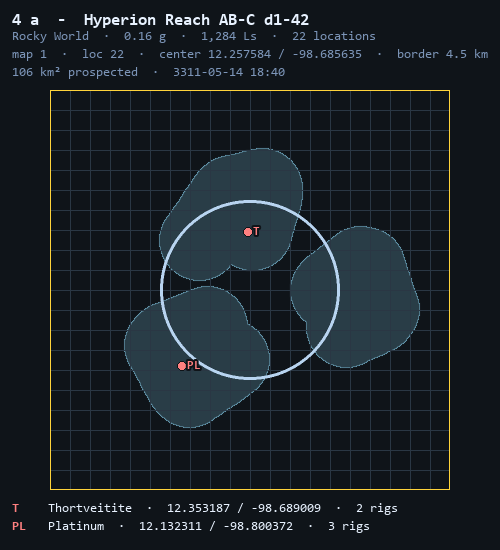
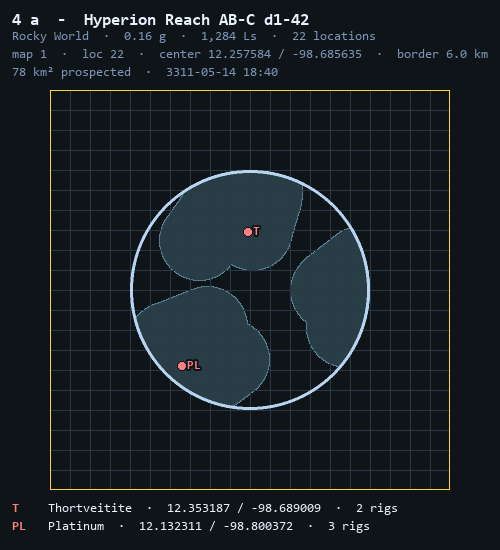
Drive rings inside a known border; ground outside it is deleted
With center and border set, the thin rings become the circles to drive:
2 km inside the border, then every 3.75 km inward for a 2 km scan range with
250 m overlap. Setting a border drops the painted points outside it and clips
the discs; driving outside paints nothing. README shows the minimap as
droppoint, center, and center with border. 4.0.0.

Claude-Session: https://claude.ai/code/session_01M6boCJULrSyUu3acaq6ken

diff --git a/rs_core/coverage.py b/rs_core/coverage.py
@@ -20,7 +20,7 @@ rs_tests/test_coverage.py.
 
 import math
 
-from PIL import Image, ImageDraw, ImageFilter
+from PIL import Image, ImageChops, ImageDraw, ImageFilter
 
 from rs_core import arrow, measure, palette, spotcard
 
@@ -49,6 +49,26 @@ STAMP_M = 250.0
 
 # Grid lines, pinned to the centre so they move with the ground.
 GRID_M = 1000.0
+
+# Drive rings inside a known border: the scan radius on each side of a ring,
+# less this much overlap with the next, apart.
+DRIVE_OVERLAP_M = 250.0
+DRIVE_STEP_M = 2 * SCAN_RADIUS_M - DRIVE_OVERLAP_M
+
+
+def drive_radii(border_m):
+    """Radii of the rings to drive to cover a location of this border, outside
+    in. The outermost scans right up to the border; each next one overlaps it
+    by DRIVE_OVERLAP_M. A last 0 means the middle is still uncovered: drive to
+    the centre itself."""
+    radii = []
+    r = border_m - SCAN_RADIUS_M
+    while r - SCAN_RADIUS_M > 0:
+        radii.append(r)
+        r -= DRIVE_STEP_M
+    radii.append(max(r, 0.0))
+    return radii
+
 
 # Thin rings around the centre, or the latest droppoint until one is set. At 3
 # and 5 km rather than one and two scan radii: a scan disc there paints its own
@@ -120,6 +140,7 @@ class Coverage:
         # The mining location last targeted on this map. A label, not a key.
         self.location = None
         self._last = None
+        self._clip = None       # the border as a mask, while one is set
         self._layer = None      # ((version, side, ring centre, border), image)
 
     def to_dict(self):
@@ -157,9 +178,19 @@ class Coverage:
         in `stamps` - including those past the mask's edge, which paint
         nothing here but belong to the map on disk."""
         self.mask = Image.new("L", (MASK_PX, MASK_PX), 0)
+        self._clip = None
+        if self.border_m is not None:
+            self._clip = Image.new("L", (MASK_PX, MASK_PX), 0)
+            cx, cy = _mask_px(0.0, 0.0)
+            r = self.border_m / MASK_M_PER_PX
+            ImageDraw.Draw(self._clip).ellipse([cx - r, cy - r, cx + r, cy + r], fill=255)
         self.stamps = []
         for lat, lon in points:
             x, y = self.xy(lat, lon)
+            # Outside a known border the point is gone, from the mask and the
+            # file: the player said the location ends there.
+            if not self._inside(x, y):
+                continue
             if abs(x) <= REACH_M + SCAN_RADIUS_M and abs(y) <= REACH_M + SCAN_RADIUS_M:
                 self._stamp(x, y)
             self.stamps.append((lat, lon))
@@ -171,6 +202,8 @@ class Coverage:
         rebuilt around it from the saved points, and the rings follow."""
         self.origin = (lat, lon)
         self.centered = True
+        # A border already set keeps its radius around the new centre, and
+        # what falls outside it now is dropped.
         self._repaint(list(self.stamps))
 
     def set_border(self, lat, lon):
@@ -179,7 +212,11 @@ class Coverage:
         if not self.centered:
             return False
         self.border_m = math.hypot(*self.xy(lat, lon))
+        self._repaint(list(self.stamps))
         return True
+
+    def _inside(self, x, y):
+        return self.border_m is None or math.hypot(x, y) <= self.border_m
 
     def anchor(self):
         """(x, y) metres the rings are drawn around: the centre once set, the
@@ -212,6 +249,8 @@ class Coverage:
         if self._last is not None and math.hypot(x - self._last[0], y - self._last[1]) < STAMP_M:
             return True
         self._last = (x, y)
+        if not self._inside(x, y):
+            return True             # outside the border: in reach, not painted
         if self._stamp(x, y):
             self.stamps.append((lat, lon))
         return True
@@ -229,6 +268,8 @@ class Coverage:
         before = region.histogram()[255]
         ImageDraw.Draw(region).ellipse(
             [px - r - box[0], py - r - box[1], px + r - box[0], py + r - box[1]], fill=255)
+        if self._clip is not None:
+            region = ImageChops.multiply(region, self._clip.crop(box))
         if region.histogram()[255] > before:
             self.mask.paste(region, box[:2])
             self.version += 1
@@ -334,7 +375,7 @@ def picture(mask, marks=(), title=(), legend=(), border_m=None):
     the picture is the bare map.
     """
     # No rings: the ground and the bookmarks are what the picture is kept for.
-    image = _draw_layer(mask, PICTURE_SIDE, border_m=border_m)
+    image = _draw_layer(mask, PICTURE_SIDE, border_m=border_m, drive=False)
     scale = image.width / (2 * REACH_M)
     _bookmarks(image, [(image.width / 2 + mx * scale, image.height / 2 - my * scale, *rest)
                        for mx, my, *rest in marks], PICTURE_SIDE)
@@ -406,7 +447,7 @@ def _bookmarks(image, points, side):
                           stroke_width=2, stroke_fill=palette.rgb(palette.BG))
 
 
-def _draw_layer(mask, side, ring_at=None, border_m=None):
+def _draw_layer(mask, side, ring_at=None, border_m=None, drive=True):
     """Painted area, grid, the edge of the mask, the rings around `ring_at`
     (metres, or None for no rings) and the location's border around the centre
     (metres, or None), over all of REACH_M, at `side` pixels to 2 * VIEW_M."""
@@ -434,8 +475,19 @@ def _draw_layer(mask, side, ring_at=None, border_m=None):
     draw.rectangle([0, 0, big - 1, big - 1], outline=palette.rgb(palette.WARN), width=SS)
 
     # Distance rings, RANGE_RINGS_M. A pixel wide after the reduce, and dim -
-    # a scale, not a claim.
-    if ring_at is not None:
+    # a scale, not a claim. With a border they give way to the rings to drive.
+    if border_m and drive:
+        cx, cy = at(0.0, 0.0)
+        for radius_m in drive_radii(border_m):
+            if radius_m > 0:
+                r = radius_m * scale
+                draw.ellipse([cx - r, cy - r, cx + r, cy + r], outline=RING, width=SS)
+            else:
+                # The middle is not covered by any ring: drive to the centre.
+                s = side * SS * 0.02
+                draw.line([cx - s, cy, cx + s, cy], fill=RING, width=SS)
+                draw.line([cx, cy - s, cx, cy + s], fill=RING, width=SS)
+    elif ring_at is not None:
         dx, dy = at(*ring_at)
         for radius_m in RANGE_RINGS_M:
             r = radius_m * scale

diff --git a/rs_tests/make_docs_images.py b/rs_tests/make_docs_images.py
@@ -257,21 +257,30 @@ def minimap_image(root, scale):
             # Back in the ship for the hop: nothing painted until the next launch.
             minimap.update(root, reading(*track[-1], 0, 0x1000000), SYSTEM)
 
-    # The player's two hotkeys, pressed where they would be: the centre in the
-    # middle of the drive, the border at its southern edge. Then one more fix
-    # so the map draws what they did.
+    # Three pictures of the same drive: as it is, after the centre hotkey in
+    # the middle of it, and after the border hotkey at its southern edge. One
+    # more fix after each press so the map draws what it did.
     last = launches[-1][-1]
-    for x, y, press in ((2500, -2500, minimap.center_here), (2500, -7000, minimap.border_here)):
+
+    def shoot(name):
+        minimap.update(root, reading(*last, 0, minimap.coverage.IN_SRV), SYSTEM)
+        window = minimap._window
+        settle(window, 20)
+        path = grab(window, name, scale)
+        # grab() takes 6 px under the window for menu shadows. The map is a
+        # solid panel with none, and those 6 px are whatever desktop is behind.
+        shot = Image.open(path)
+        shot.crop((0, 0, shot.width, shot.height - int(6 * scale))).save(path)
+
+    def press(x, y, hotkey):
         minimap._here = (reading(x, y, 0, 0)["Latitude"], reading(x, y, 0, 0)["Longitude"])
-        press()
-    minimap.update(root, reading(*last, 0, minimap.coverage.IN_SRV), SYSTEM)
-    window = minimap._window
-    settle(window, 20)
-    path = grab(window, "minimap.png", scale)
-    # grab() takes 6 px under the window for menu shadows. The map is a solid
-    # panel with none, and those 6 px are whatever desktop is behind it.
-    shot = Image.open(path)
-    shot.crop((0, 0, shot.width, shot.height - int(6 * scale))).save(path)
+        hotkey()
+
+    shoot("minimap.png")
+    press(2500, -2500, minimap.center_here)
+    shoot("minimap-center.png")
+    press(2500, -8500, minimap.border_here)
+    shoot("minimap-border.png")
 
     # The same drive as a shared map picture, with the title and legend the
     # plugin writes. Spelled out rather than read from cards and the system
@@ -286,7 +295,7 @@ def minimap_image(root, scale):
                              f"  ·  {rigs} rigs"))
     centre = cover.origin
     title = ["4 a  -  " + SYSTEM, "Rocky World  ·  0.16 g  ·  1,284 Ls  ·  22 locations",
-             f"map 1  ·  loc 22  ·  center {centre[0]:.6f} / {centre[1]:.6f}  ·  border 4.5 km",
+             f"map 1  ·  loc 22  ·  center {centre[0]:.6f} / {centre[1]:.6f}  ·  border 6.0 km",
              f"{cover.painted_km2():.0f} km² prospected  ·  3311-05-14 18:40"]
     coverage.picture(cover.mask, marks, title, legend, cover.border_m).save(
         os.path.join(DOCS, "mapshare.png"))

diff --git a/rs_tests/test_coverage.py b/rs_tests/test_coverage.py
@@ -309,6 +309,43 @@ class TestSaved:
                   for k in (-1, 0, 1)]
         assert coverage.BORDER in column
 
+    def test_drive_rings_cover_the_location_with_the_overlap(self):
+        radii = coverage.drive_radii(10000)
+        assert radii == pytest.approx([8000, 4250, 500])
+        # Each ring's scanned band overlaps the next by 250 m, and the last
+        # one reaches the middle.
+        for outer, inner in zip(radii, radii[1:]):
+            assert (outer - 2000) - (inner + 2000) == pytest.approx(-250)
+        assert radii[-1] - 2000 <= 0 and radii[0] + 2000 == pytest.approx(10000)
+
+    def test_a_small_location_ends_at_the_centre(self):
+        # 4.5 km: one ring at 2.5 km scans 0.5-4.5 km, the middle needs a stop.
+        assert coverage.drive_radii(4500) == pytest.approx([2500, 0])
+        assert coverage.drive_radii(1500) == [0.0]
+
+    def test_ground_outside_the_border_is_deleted(self):
+        cover = fresh()
+        drive(cover, [(0, 0), (8000, 0)])
+        stamps = len(cover.stamps)
+        cover.recenter(LAT, LON)
+        cover.set_border(*at(0, 4000))
+        assert len(cover.stamps) < stamps
+        assert all(math.hypot(*cover.xy(*p)) <= 4000 for p in cover.stamps)
+        # Nothing painted past the border, not even the edge of a disc inside it.
+        per_px = coverage.MASK_M_PER_PX
+        cx, cy = coverage._mask_px(0, 0)
+        assert cover.mask.getpixel((int(cx + 4500 / per_px), int(cy))) == 0
+        assert cover.mask.getpixel((int(cx + 3000 / per_px), int(cy))) == 255
+        assert "stamps" in cover.to_dict() and len(cover.to_dict()["stamps"]) == len(cover.stamps)
+
+    def test_driving_outside_the_border_paints_nothing(self):
+        cover = fresh()
+        cover.recenter(LAT, LON)
+        cover.set_border(*at(0, 3000))
+        version = cover.version
+        assert cover.add(*at(6000, 0)) is True
+        assert cover.version == version and cover.painted_km2() == 0
+
     def test_another_bodys_map_of_the_same_name_is_not_skipped(self):
         # 'map 1' on A 3 and 'map 1' on A 2 are different files.
         other = coverage.follow(None, self.fix(body="A 3"), was_in_srv=False)

diff --git a/rs_core/update.py b/rs_core/update.py
@@ -23,7 +23,7 @@ import zipfile
 
 from rs_core.logging import logger
 
-VERSION = "3.8.0"
+VERSION = "4.0.0"
 
 # For testing the update path without publishing a throwaway release: set
 # RHINOSPOTTER_VERSION to something older and the running plugin will see the

diff --git a/README.md b/README.md
@@ -139,10 +139,21 @@ Bookmarks land in `%LOCALAPPDATA%\RhinoSpotter\cards\<System>\`. The
 
 ## Minimap - the ground the scanner has been driven over
 
-<p align="center">
-  <img src="docs/minimap.png" width="260"
-       alt="The minimap: the painted area, two bookmarks, rings and a bold border around the center, the SRV in the middle">
-</p>
+<table align="center">
+  <tr>
+    <td align="center"><img src="docs/minimap.png" width="230"
+         alt="The minimap before a center is set: painted ground, two bookmarks, rings around the droppoint"></td>
+    <td align="center"><img src="docs/minimap-center.png" width="230"
+         alt="The minimap with a center set: the rings sit around the center"></td>
+    <td align="center"><img src="docs/minimap-border.png" width="230"
+         alt="The minimap with center and border: bold border, drive rings inside, ground outside cut away"></td>
+  </tr>
+  <tr>
+    <td align="center"><em>Droppoint</em></td>
+    <td align="center"><em>Center set</em></td>
+    <td align="center"><em>Center and border</em></td>
+  </tr>
+</table>
 
 Launch the Rhino and a map comes up in a corner of the game. Wherever you
 drive, a 2 km disc - the scanner's range - is painted in, and the discs run
@@ -159,6 +170,12 @@ says how far and which way it is, and how many km² are painted.
   it: its distance from the center becomes the location's border, drawn as a
   bold circle and saved with the map. Needs a center first - without one the
   map says "set center first". No border set is fine; nothing is drawn.
+- **With center and border, the map plans the drive.** The thin rings become
+  the circles to drive: the outermost 2 km inside the border, then one every
+  3.75 km inward - the 2 km scan range on each side, overlapping the next ring
+  by 250 m. A small circle or cross in the middle means drive to the center
+  too. Painted ground outside the border is deleted from the map, and driving
+  outside it paints nothing.
 - Both hotkeys are Windows-wide while EDMC runs, and listed under the map. If
   another program already holds one, EDMC's log says so and the other still
   works.

diff --git a/CHANGELOG.md b/CHANGELOG.md
@@ -1,6 +1,6 @@
 # Changelog
 
-## 3.8.0
+## 4.0.0
 
 **Added**
 
@@ -10,6 +10,19 @@
   picture's title. It needs a center; pressed without one, the map says
   "set center first" for a few seconds. Both hotkeys are listed under the
   map.
+- With a center and a border, the thin rings become the circles to drive:
+  the outermost 2 km inside the border, then one every 3.75 km inward - 2 km
+  of scan on each side, 250 m overlap with the next. A small circle or cross
+  in the middle when the center itself still needs driving to.
+
+**Changed**
+
+- Setting a border deletes the painted ground outside it, from the map and
+  its saved file, and cuts discs off at the border. Driving outside a known
+  border paints nothing. A new center keeps the border's radius and deletes
+  what falls outside it then.
+- The README shows the minimap three ways: droppoint, center, center and
+  border.
 
 ## 3.7.0
 
